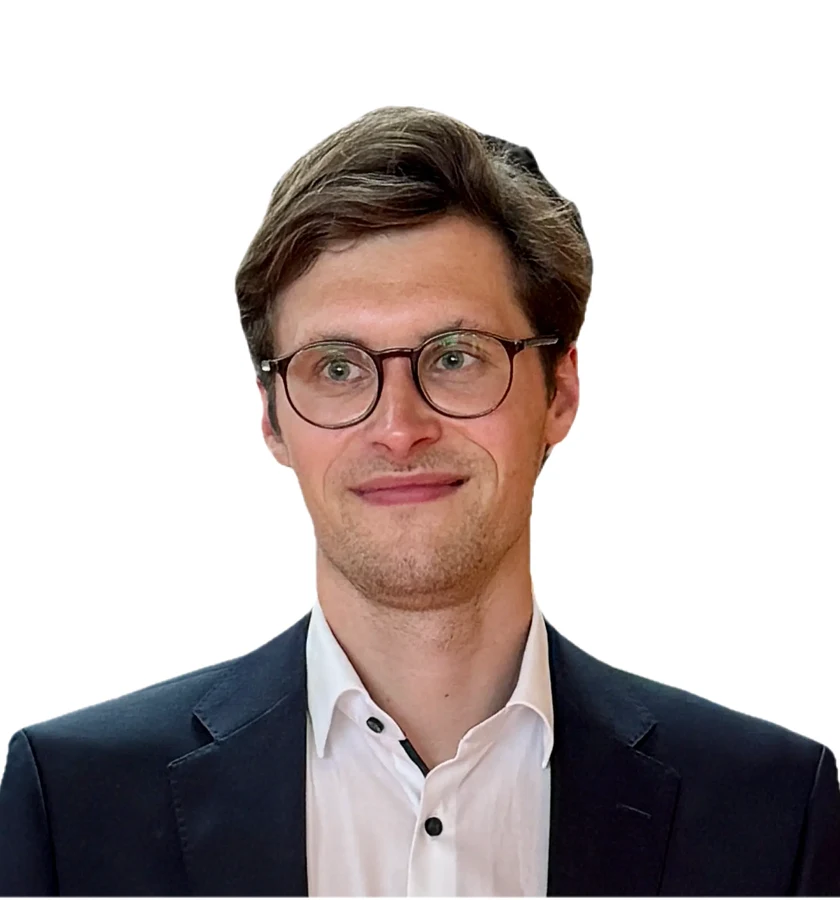
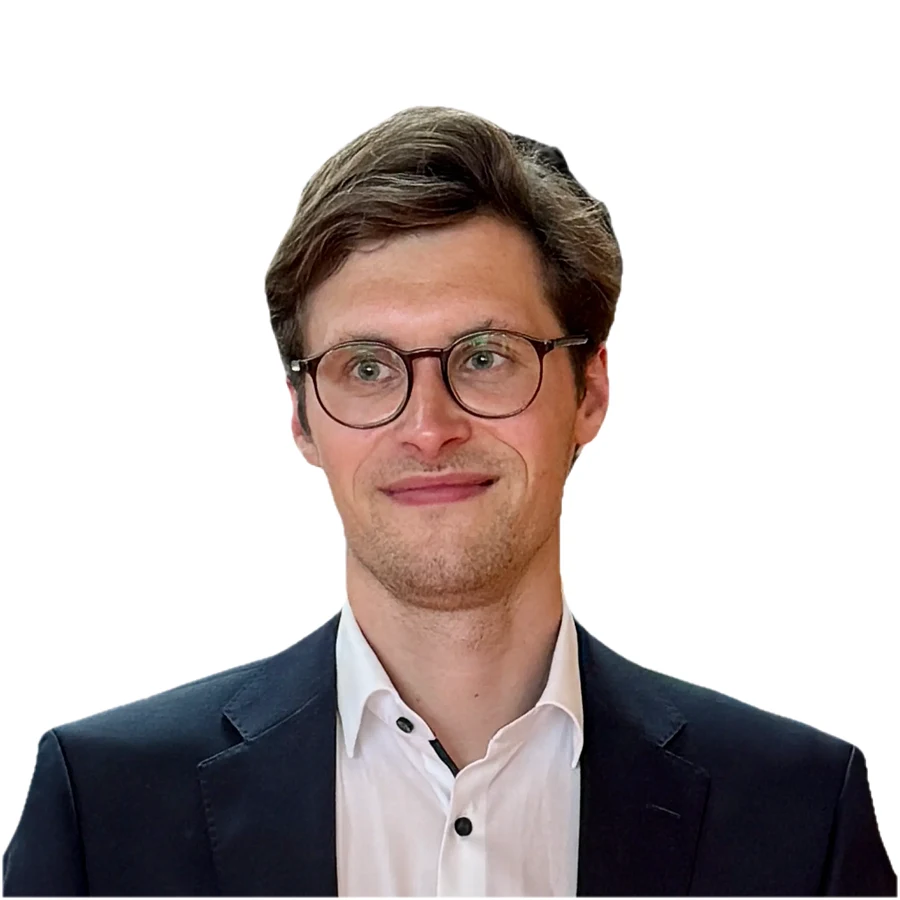
About page: centred, circular portrait

diff --git a/themes/quiet/layouts/_default/about.html b/themes/quiet/layouts/_default/about.html
@@ -6,27 +6,23 @@
     <section class="about-lede">{{ $.RenderString (dict "display" "block") . }}</section>
   {{ end }}
 
-  {{/* Text stays in the centred column at its full measure; the portrait
-       hangs out into the right-hand white space. Markup order is text
-       first so it reads correctly; CSS lifts the photo above it on a
-       phone. */}}
-  <div class="about-columns">
+  <div class="prose">
 
-    <div class="prose">
-      <h1 class="page-title">{{ .Title }}</h1>
-      {{ .Content }}
-    </div>
+    <h1 class="page-title">{{ .Title }}</h1>
 
+    {{/* The portrait sits centred above the text, cropped to a circle. */}}
     {{ with .Params.photo }}
-      <figure class="about-photo">
+      <figure class="about-portrait">
         <img src="{{ . | relURL }}"
              alt="{{ $.Params.photo_alt | default (printf "Portrait of %s" site.Title) }}"
-             width="840" height="900" loading="lazy" decoding="async">
+             width="900" height="900" loading="lazy" decoding="async">
         {{ with $.Params.photo_credit }}
           <figcaption>{{ . }}</figcaption>
         {{ end }}
       </figure>
     {{ end }}
+
+    {{ .Content }}
 
   </div>
 

diff --git a/themes/quiet/static/css/style.css b/themes/quiet/static/css/style.css
@@ -1738,3 +1738,37 @@ body.home .topbar { padding-block: 1.6rem 0; }
 @media (min-width: 40rem) {
   .home-text { font-size: 1.25rem; }
 }
+
+
+/* ---------- About page portrait ---------- */
+
+/* Centred in the text column and cropped to a circle. The ring is the
+   accent colour at low strength, so it follows the theme. */
+.about-portrait {
+  margin: 2rem auto 2.4rem;
+  width: 12rem;
+  max-width: 60%;
+}
+
+.about-portrait img {
+  width: 100%;
+  /* height must be auto, or the img's own height attribute wins and
+     aspect-ratio is ignored. */
+  height: auto;
+  aspect-ratio: 1 / 1;
+  object-fit: cover;
+  border-radius: 50%;
+  box-shadow: 0 0 0 1px var(--rule);
+}
+
+.about-portrait figcaption {
+  margin-top: 0.6rem;
+  font-size: 0.7rem;
+  line-height: 1.4;
+  color: var(--muted);
+  text-align: center;
+}
+
+@media (min-width: 40rem) {
+  .about-portrait { width: 13.5rem; }
+}
